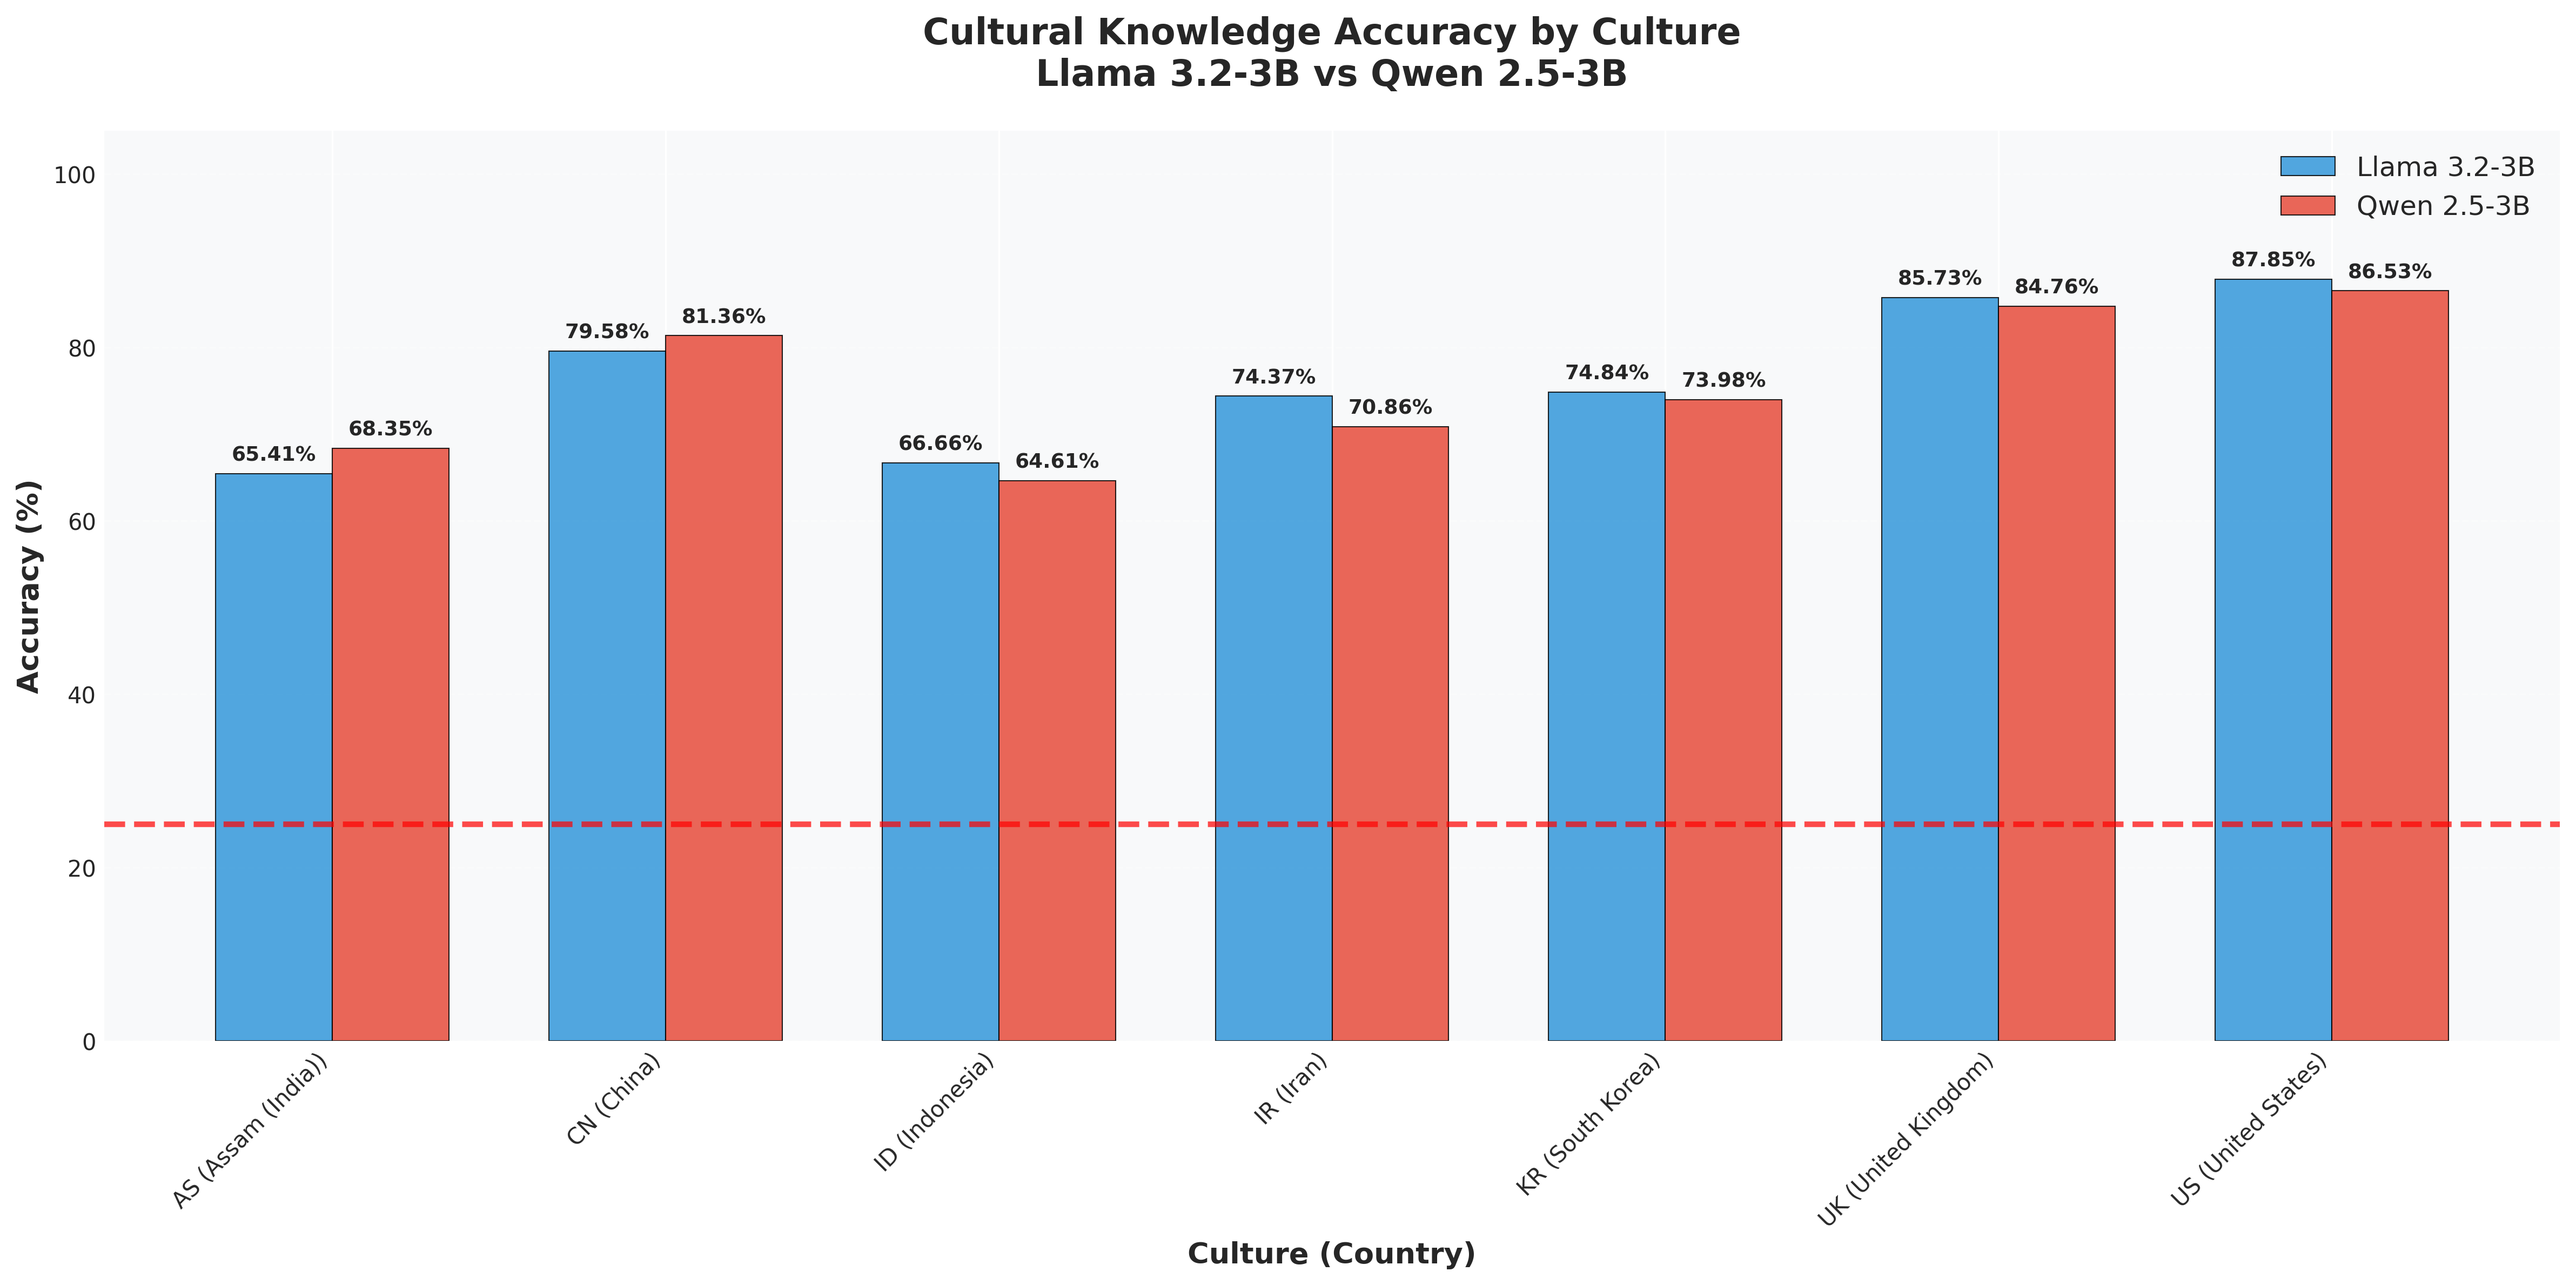
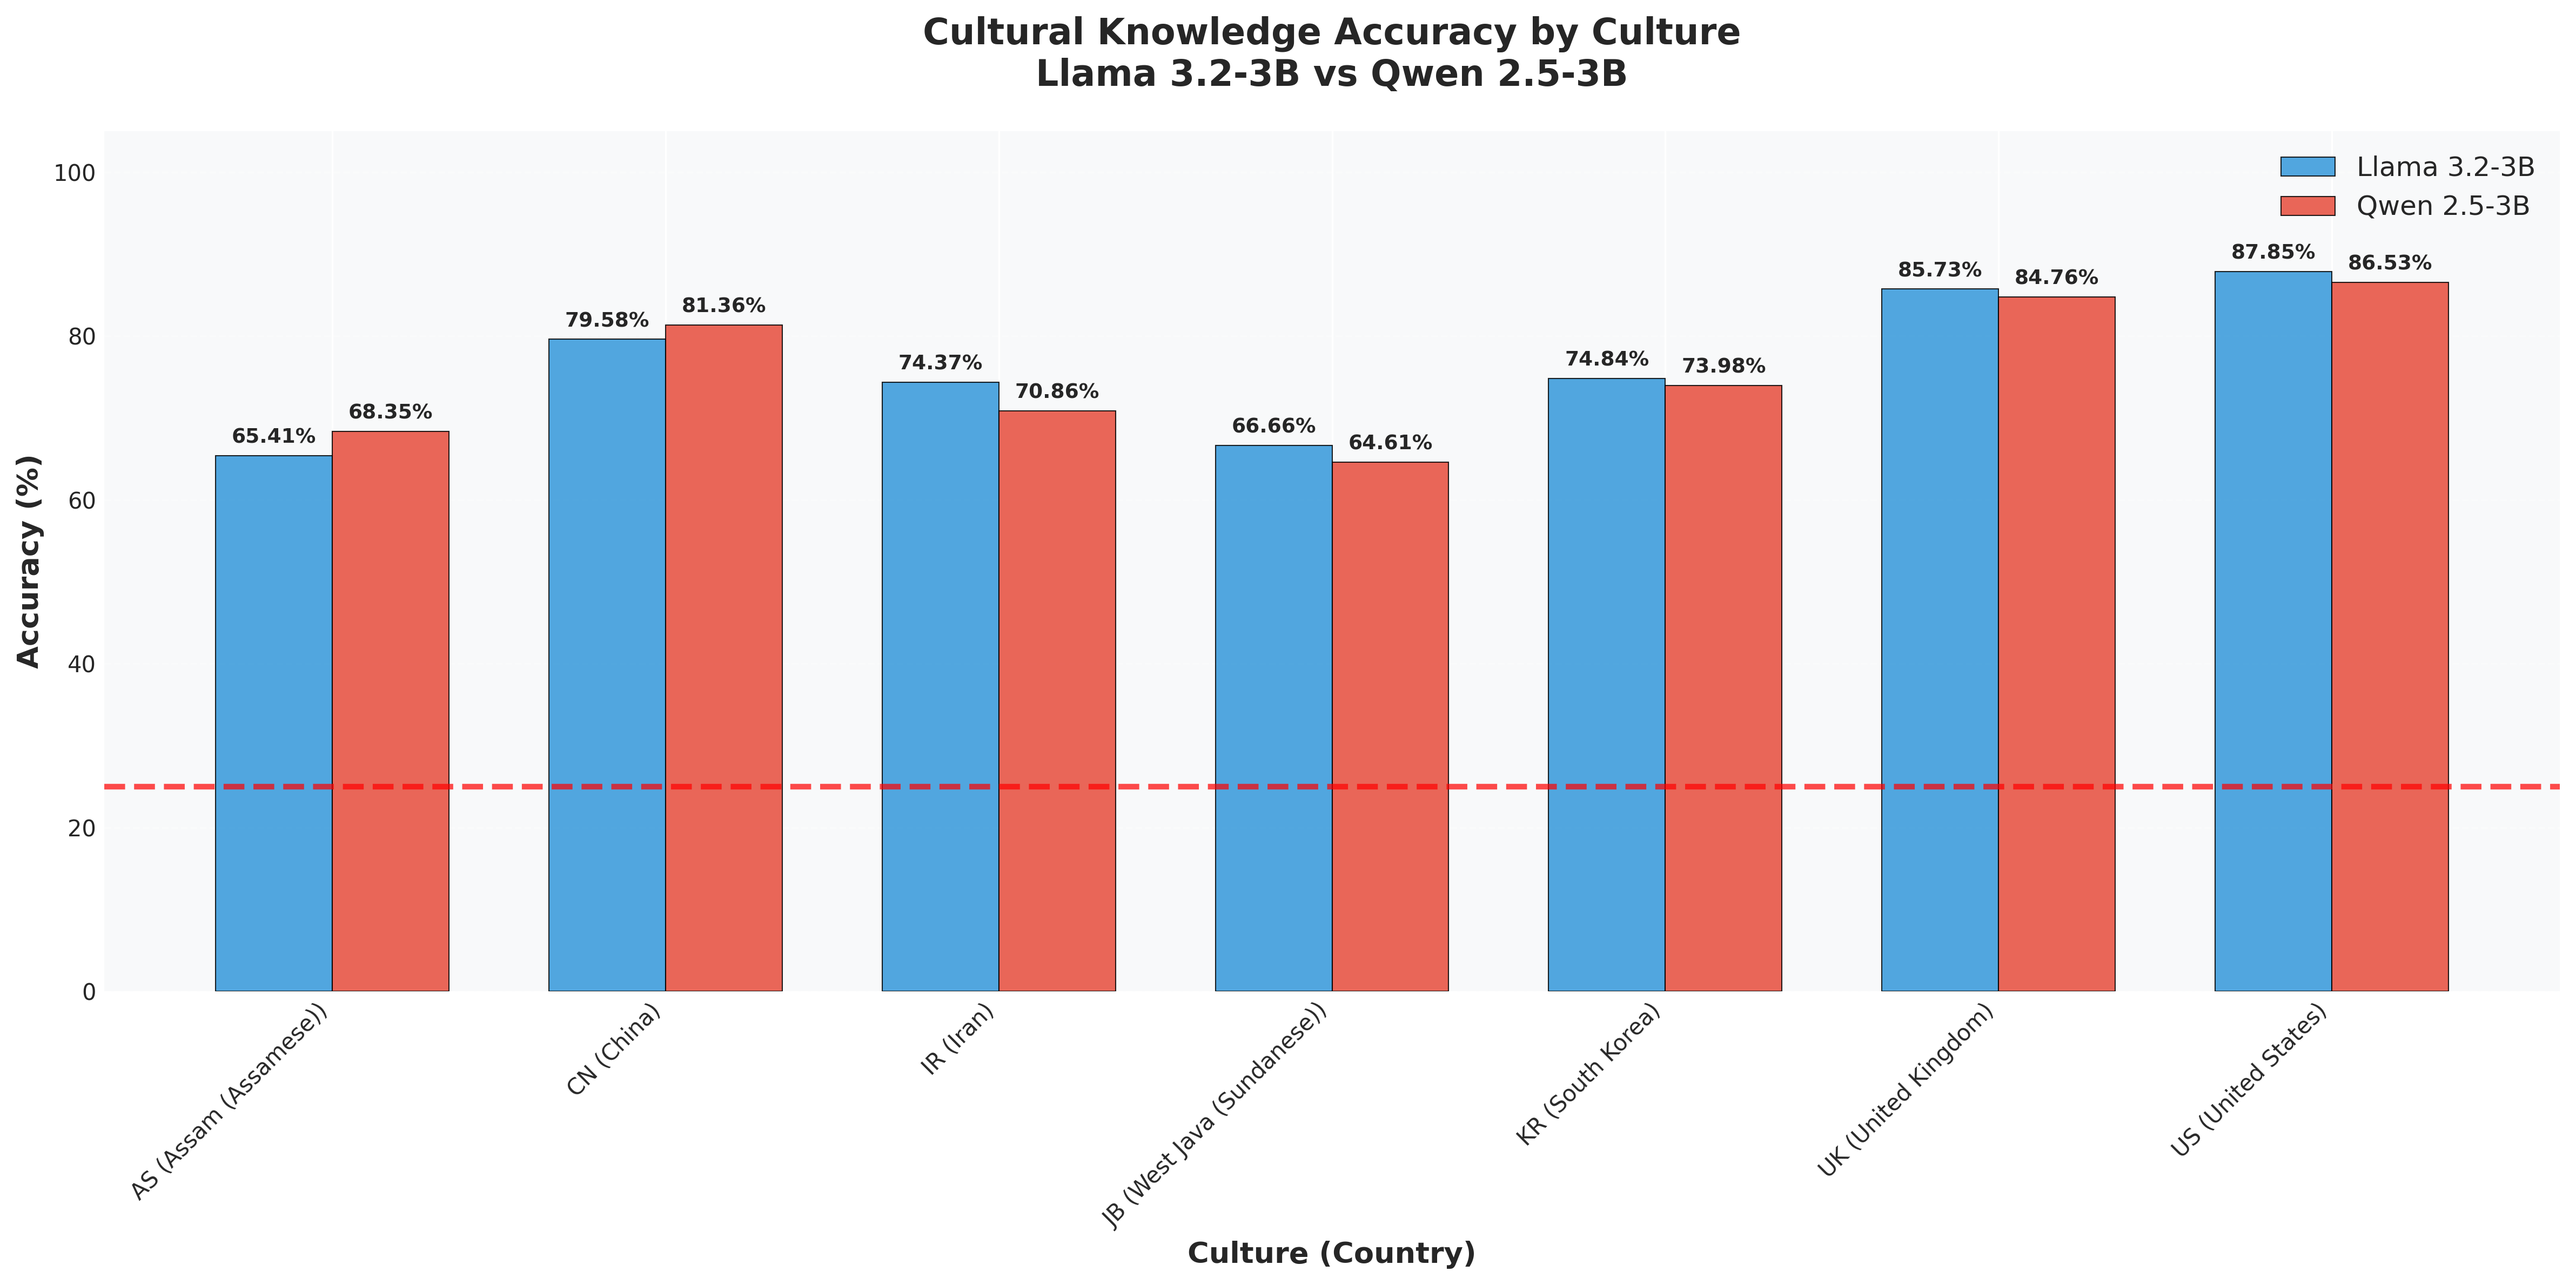
Visualization fixed for blend

diff --git a/analyze_result.py b/analyze_result.py
@@ -18,8 +18,8 @@ CULTURE_NAMES = {
     'IR': 'Iran',
     'DZ': 'Algeria',
     'AZ': 'Azerbaijan',
-    'JB': 'Jordan',
-    'AS': 'Assam (India)',
+    'JB': 'West Java (Sundanese)',
+    'AS': 'Assam (Assamese)',
     'NG': 'Nigeria',
     'ET': 'Ethiopia'
 }
@@ -97,7 +97,7 @@ def load_summary_results(results_dir):
                 elif culture == "US":
                     culture = "US"
                 elif "SUNDANESE" in culture:
-                    culture = "ID"  # Indonesia
+                    culture = "JB"  # Indonesia
                 elif "ASSAMESE" in culture:
                     culture = "AS"  # Assamese
             
